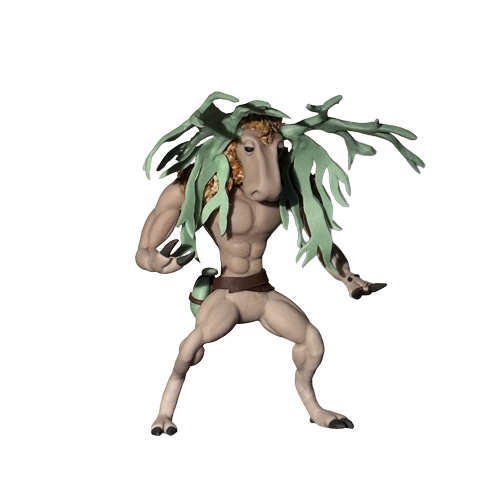
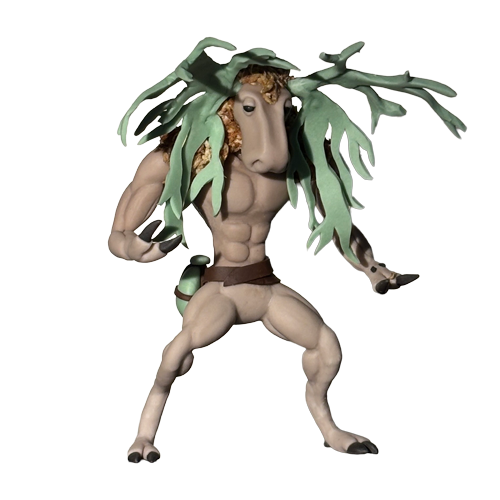
023追加

Changed region(s): [[0.21, 0.06, 0.93, 0.93]]

diff --git a/data/entries.js b/data/entries.js
@@ -427,7 +427,7 @@ window.MAIN_ENTRIES = [
     shopUrl: "",
     price: "",
     soldOut: false, // 完売時は true に変えるだけ
-    missingState:"SIGNAL_LOST",
+    missingState: "SIGNAL_LOST",
   },
 
   {
@@ -599,7 +599,7 @@ window.MAIN_ENTRIES = [
     shopUrl: "",
     price: "",
     soldOut: false, // 完売時は true に変えるだけ
-    missingState: "DATA_LOST"// 欠損状態を設定
+    missingState: "DATA_LOST", // 欠損状態を設定
   },
 
   {
@@ -1087,10 +1087,85 @@ window.MAIN_ENTRIES = [
     shopUrl: "",
     price: "",
     soldOut: false, // 完売時は true に変えるだけ
-    missingState: "ACCESS_DENIED"// 欠損状態を設定
+    missingState: "ACCESS_DENIED", // 欠損状態を設定
   },
-  
+  {
+    // Basic identification
+    no: "023",
+    sort: 230,
+    createdAt: "2026-05-23",
+    firstObserved: "2026-05-23",
 
+    // Classification system
+    species: "Staghorn Moss",
+    lineage: "MOSS-SYMBIOSIS",
+    dangerClass: "CAUTION",
+    classification: "SAFE",
+
+    // Biological stats (0-100)
+    plant: 74,
+    animal: 91,
+    danger: 68,
+
+    // Display info
+    tag: "Beast-Dominant",
+    jp: "ビカクシダ種(名称未定)",
+    en: "No name",
+    rarity: "RARE",
+    rarityClass: "rar-r",
+
+    // Detailed description
+    notes:
+      "初観測時、倒木と完全に同化していたため生物だと認識できなかった。角状器官の表面には複数の苔類群が定着しており、移動後も周囲には高湿度状態が残存していた。なお、こちらの視線に反応した瞬間、明確な威嚇姿勢を確認している。アガベスト",
+
+    desc: `
+    湿潤森林地帯にて確認された大型鋸歯生物。
+
+    頭部にはヘラジカを思わせる巨大な角状器官を形成しているが、
+    その実態はビカクシダ系統の葉状組織が変異・硬質化したものである。
+
+    角状器官の表面には広範囲に苔類群が定着しており、
+    本種はこれら共生苔との複雑な湿度循環関係を構築している。
+    苔層は単なる付着物ではなく、
+    体表湿度の維持・有機物分解・擬態補助を担う外部器官として機能している可能性が高い。
+
+    特に降雨後には苔層が急速に活性化し、
+    個体全体が“移動する森林断片”のような外観へ変化することが確認されている。
+
+    また、ビカクシダ特有の貯水葉構造は、
+    本種において腰部へ装着されたホルダー状器官へと進化している。
+    内部には高湿度下で生成された水分および有機堆積物が蓄積され、
+    長時間の巡回行動時における水分維持機構として利用されていると推定される。
+
+    通常時の行動性は低いが、
+    縄張りへ侵入した外来個体に対しては極めて高い攻撃性を示す。
+    交戦時には角状葉器官を大きく展開し、
+    苔胞子を周囲へ散布しながら突進する行動が観測されている。
+  `,
+
+    // Abilities and traits
+    abilities: ["胞子散布", "湿度循環", "擬態静止", "苔類共生"],
+
+    // Habitat and physical traits
+    habitat: "湿潤森林",
+    size: "3.4m",
+    mobility: "突進型",
+
+    // Status
+    status: "● AGITATED",
+    statusColor: "#d65a5a",
+
+    // Shop information
+    shopUrl: "",
+    price: "",
+    soldOut: false,
+
+    // Variants
+    variants: [],
+
+    // Image
+    image: "images/no_023.png",
+  },
 ];
 
 // EX catalog entries (EX-001~)
@@ -1242,45 +1317,57 @@ function validateDatabase() {
     });
   }
 
-  checkDuplicates(window.MAIN_ENTRIES, 'MAIN_ENTRIES');
-  checkDuplicates(window.EX_ENTRIES, 'EX_ENTRIES');
-  checkDuplicates(window.MISSING_ENTRIES, 'MISSING_ENTRIES');
+  checkDuplicates(window.MAIN_ENTRIES, "MAIN_ENTRIES");
+  checkDuplicates(window.EX_ENTRIES, "EX_ENTRIES");
+  checkDuplicates(window.MISSING_ENTRIES, "MISSING_ENTRIES");
 
   // Check for required fields
   function checkRequiredFields(entries, arrayName) {
-    const requiredFields = ['no', 'sort', 'createdAt', 'jp', 'en', 'rarity', 'desc'];
+    const requiredFields = [
+      "no",
+      "sort",
+      "createdAt",
+      "jp",
+      "en",
+      "rarity",
+      "desc",
+    ];
     entries.forEach((entry, index) => {
-      requiredFields.forEach(field => {
+      requiredFields.forEach((field) => {
         if (entry[field] === undefined || entry[field] === null) {
-          errors.push(`${arrayName}[${index}]: Missing required field '${field}'`);
+          errors.push(
+            `${arrayName}[${index}]: Missing required field '${field}'`,
+          );
         }
       });
     });
   }
 
-  checkRequiredFields(window.MAIN_ENTRIES, 'MAIN_ENTRIES');
-  checkRequiredFields(window.EX_ENTRIES, 'EX_ENTRIES');
+  checkRequiredFields(window.MAIN_ENTRIES, "MAIN_ENTRIES");
+  checkRequiredFields(window.EX_ENTRIES, "EX_ENTRIES");
 
   // Check for missing state entries (intentional worldbuilding)
   window.MISSING_ENTRIES.forEach((entry, index) => {
     if (!entry.missingState) {
-      warnings.push(`MISSING_ENTRIES[${index}]: Missing 'missingState' field (should be DATA_LOST, ACCESS_DENIED, or REDACTED)`);
+      warnings.push(
+        `MISSING_ENTRIES[${index}]: Missing 'missingState' field (should be DATA_LOST, ACCESS_DENIED, or REDACTED)`,
+      );
     }
   });
 
   // Output validation results
   if (errors.length > 0) {
-    console.error('[DATABASE VALIDATION ERROR]:');
-    errors.forEach(err => console.error('  -', err));
+    console.error("[DATABASE VALIDATION ERROR]:");
+    errors.forEach((err) => console.error("  -", err));
   }
 
   if (warnings.length > 0) {
-    console.warn('[DATABASE VALIDATION WARNING]:');
-    warnings.forEach(warn => console.warn('  -', warn));
+    console.warn("[DATABASE VALIDATION WARNING]:");
+    warnings.forEach((warn) => console.warn("  -", warn));
   }
 
   if (errors.length === 0 && warnings.length === 0) {
-    console.log('[DATABASE VALIDATION]: All checks passed');
+    console.log("[DATABASE VALIDATION]: All checks passed");
   }
 
   return { errors, warnings };
@@ -1291,4 +1378,8 @@ validateDatabase();
 
 // Legacy compatibility - merge all entries for existing code
 // This will be removed once all code is updated to use separate arrays
-window.ENTRIES = [...window.MAIN_ENTRIES, ...window.EX_ENTRIES, ...window.MISSING_ENTRIES];
+window.ENTRIES = [
+  ...window.MAIN_ENTRIES,
+  ...window.EX_ENTRIES,
+  ...window.MISSING_ENTRIES,
+];
